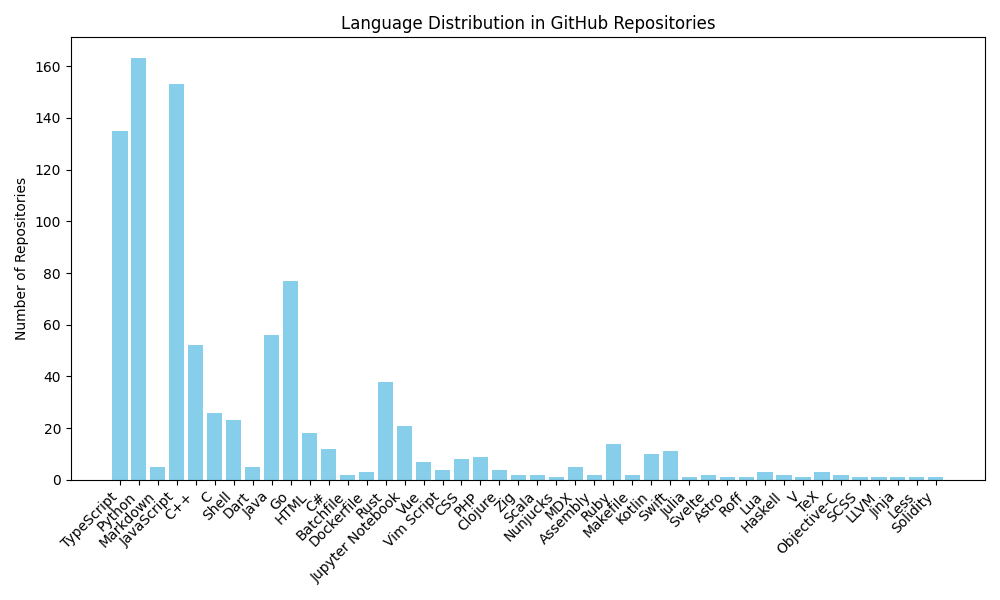
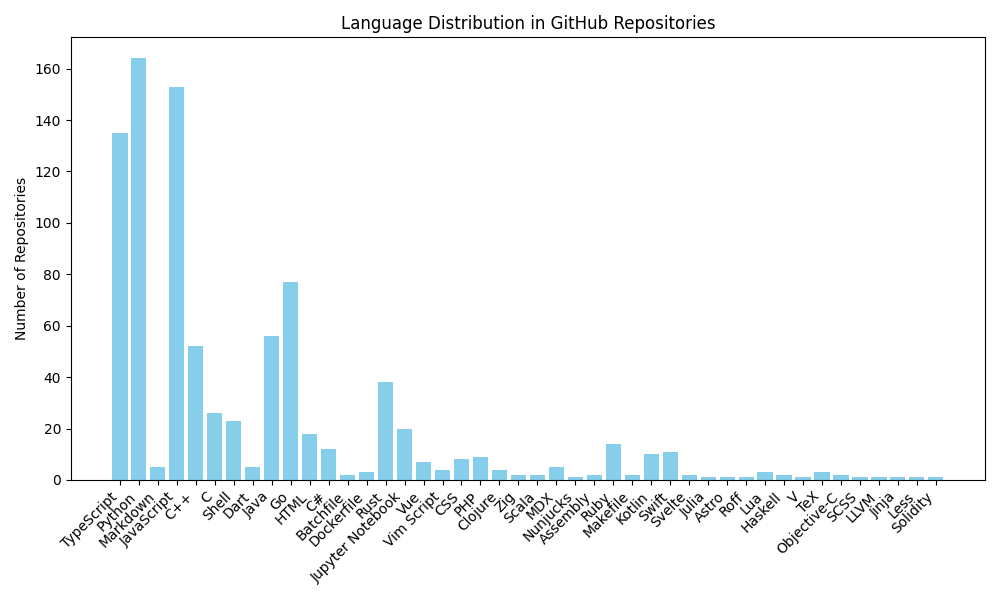
Update language distribution chart

diff --git a/README.md b/README.md
@@ -5,7 +5,7 @@
 Total repositories processed: 891
 
 Language distribution:
-TypeScript: 135, Python: 163, Markdown: 5, JavaScript: 153, C++: 52, C: 26, Shell: 23, Dart: 5, Java: 56, Go: 77, HTML: 18, C#: 12, Batchfile: 2, Dockerfile: 3, Rust: 38, Jupyter Notebook: 21, Vue: 7, Vim Script: 4, CSS: 8, PHP: 9, Clojure: 4, Zig: 2, Scala: 2, Nunjucks: 1, MDX: 5, Assembly: 2, Ruby: 14, Makefile: 2, Kotlin: 10, Swift: 11, Julia: 1, Svelte: 2, Astro: 1, Roff: 1, Lua: 3, Haskell: 2, V: 1, TeX: 3, Objective-C: 2, SCSS: 1, LLVM: 1, Jinja: 1, Less: 1, Solidity: 1
+TypeScript: 135, Python: 164, Markdown: 5, JavaScript: 153, C++: 52, C: 26, Shell: 23, Dart: 5, Java: 56, Go: 77, HTML: 18, C#: 12, Batchfile: 2, Dockerfile: 3, Rust: 38, Jupyter Notebook: 20, Vue: 7, Vim Script: 4, CSS: 8, PHP: 9, Clojure: 4, Zig: 2, Scala: 2, MDX: 5, Nunjucks: 1, Assembly: 2, Ruby: 14, Makefile: 2, Kotlin: 10, Swift: 11, Svelte: 2, Julia: 1, Astro: 1, Roff: 1, Lua: 3, Haskell: 2, V: 1, TeX: 3, Objective-C: 2, SCSS: 1, LLVM: 1, Jinja: 1, Less: 1, Solidity: 1
 
 
-_Last updated: 2024-11-08 01:45:54_
+_Last updated: 2024-11-09 01:43:47_
